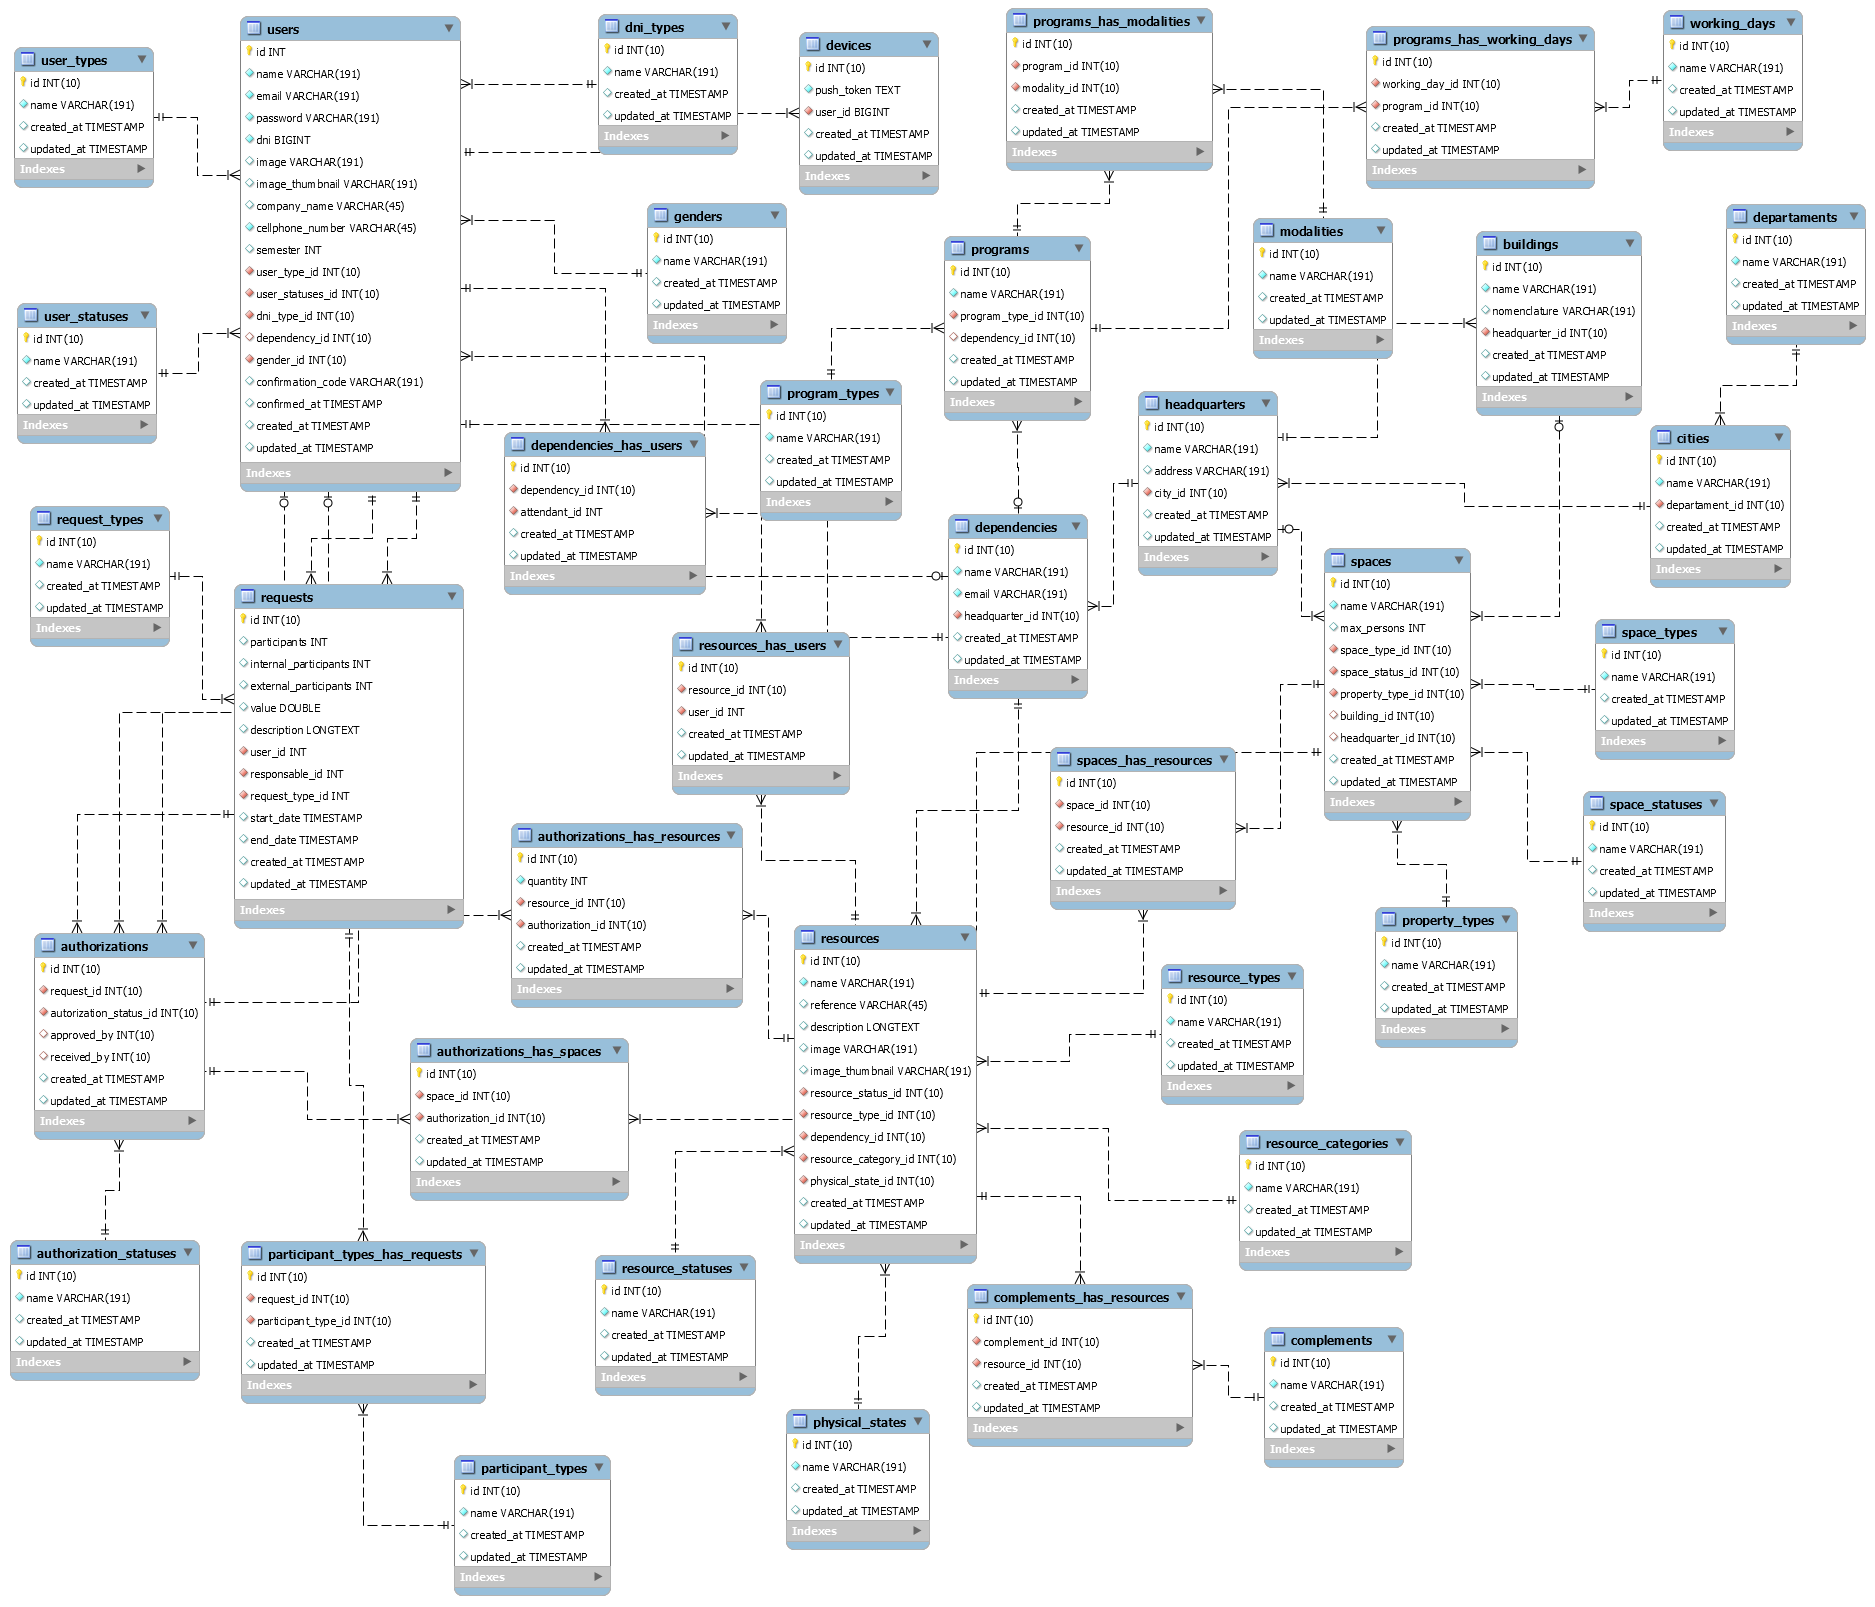
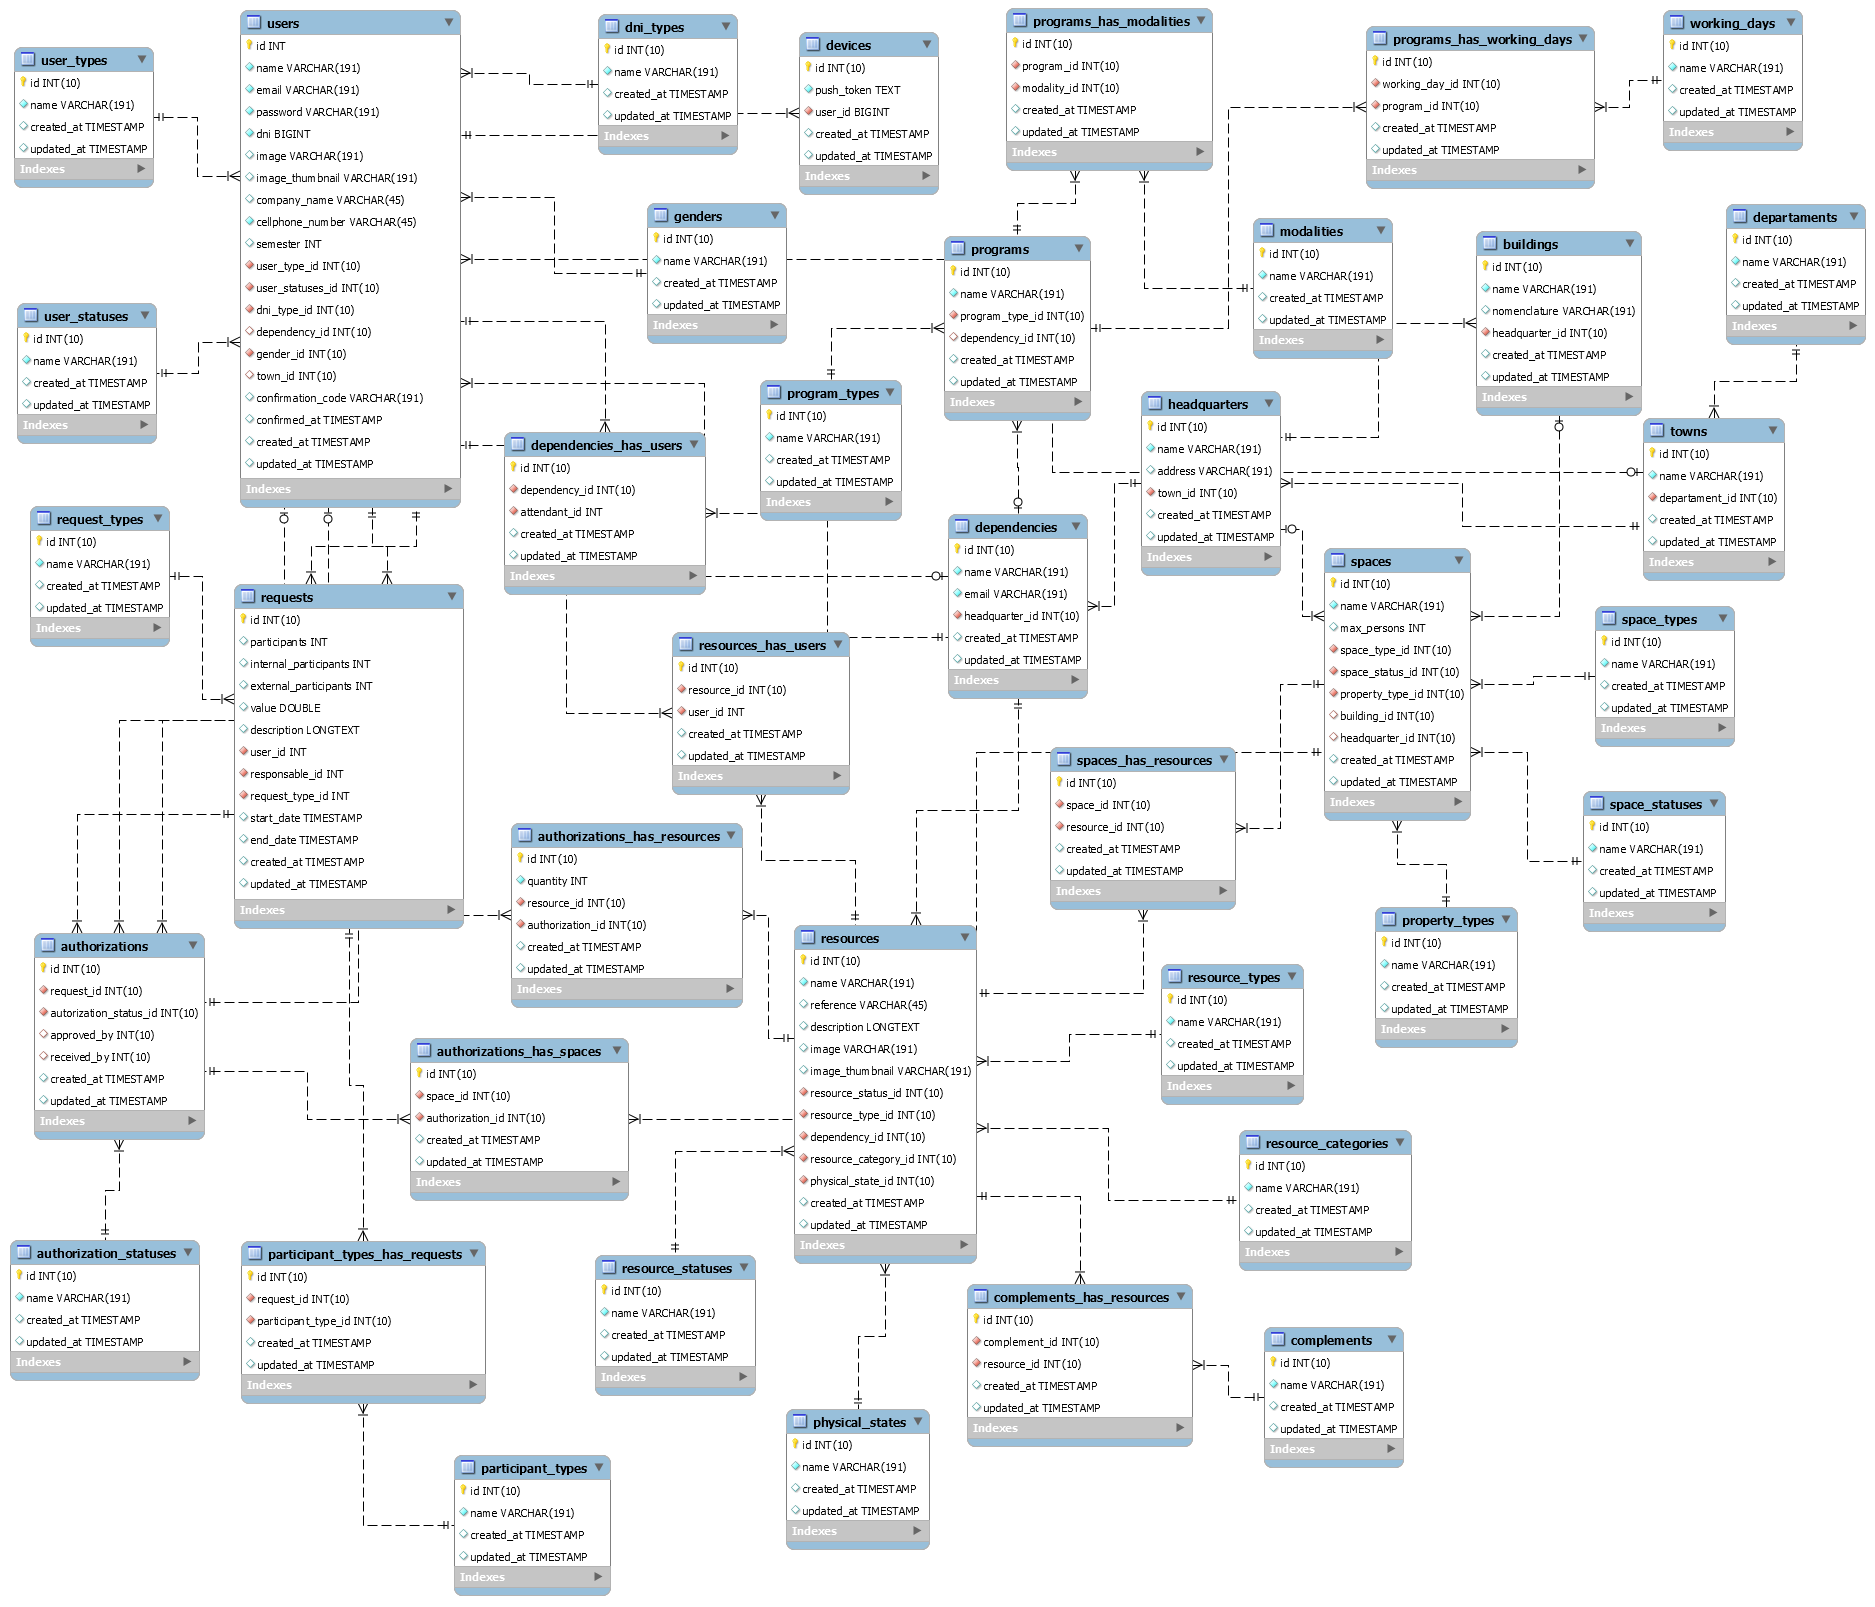
Update to migrations annd DB model

Changed region(s): [[0.1237, 0.0, 0.2475, 0.3423], [0.8352, 0.2489, 0.9589, 0.4978], [0.5877, 0.2489, 0.6805, 0.3423]]

diff --git a/backend_web/prestamosJDC/database/migrations/2018_08_25_224024_create_users_table.php b/backend_web/prestamosJDC/database/migrations/2018_08_25_224024_create_users_table.php
@@ -40,6 +40,9 @@ class CreateUsersTable extends Migration
             $table->integer('gender_id')->unsigned();
             $table->foreign('gender_id')->references('id')->on('genders');
 
+            $table->integer('town_id')->unsigned()->nullable();
+            $table->foreign('town_id')->references('id')->on('towns')->onDelete('cascade');
+
             $table->string('confirmation_code')->nullable();
             $table->timestamp('confirmed_at')->nullable();
             $table->timestamp('logged_at')->nullable();

diff --git a/backend_web/prestamosJDC/database/migrations/2018_08_25_223643_create_headquarters_table.php b/backend_web/prestamosJDC/database/migrations/2018_08_25_223643_create_headquarters_table.php
@@ -18,8 +18,8 @@ class CreateHeadquartersTable extends Migration
             $table->string('name');
             $table->string('address');
 
-            $table->integer('city_id')->unsigned();
-            $table->foreign('city_id')->references('id')->on('cities')->onDelete('cascade');
+            $table->integer('town_id')->unsigned();
+            $table->foreign('town_id')->references('id')->on('towns')->onDelete('cascade');
             
             $table->softDeletes();
             $table->timestamps();

diff --git a/backend_web/prestamosJDC/database/migrations/2018_08_25_223006_create_towns_table.php b/backend_web/prestamosJDC/database/migrations/2018_08_25_223006_create_towns_table.php
@@ -13,7 +13,7 @@ class CreateCitiesTable extends Migration
      */
     public function up()
     {
-        Schema::create('cities', function (Blueprint $table) {
+        Schema::create('towns', function (Blueprint $table) {
             $table->increments('id');
             $table->string('name');
 
@@ -31,6 +31,6 @@ class CreateCitiesTable extends Migration
      */
     public function down()
     {
-        Schema::dropIfExists('cities');
+        Schema::dropIfExists('towns');
     }
 }
